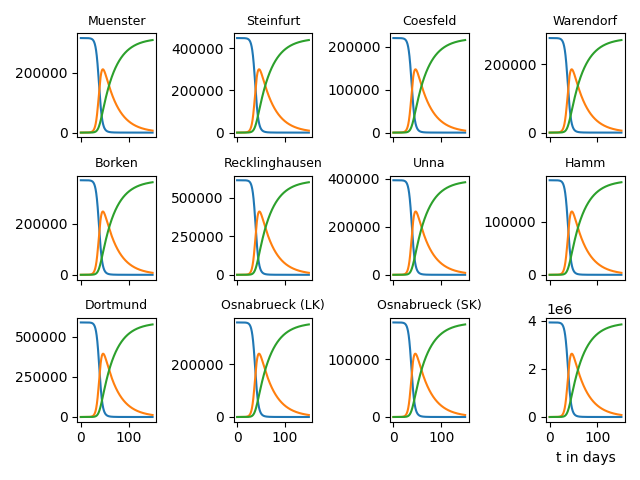
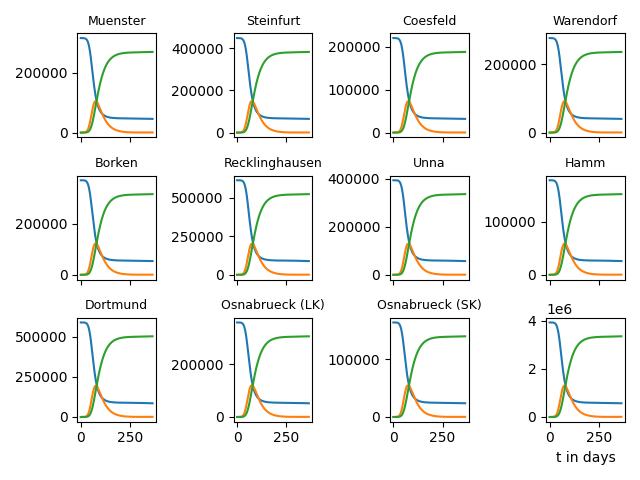
Added time-dependent R0 value

diff --git a/Const.py b/Const.py
@@ -31,10 +31,11 @@ INDEX_POS_X = 1
 INDEX_POS_Y = 2
 
 TIME_STEP = 0.1
-TEND = 150
+DAYS = 365
+daysInLockdown = 0
 
-TOTAL_STEPS = int(TEND / TIME_STEP)
-TIME_STEPS = np.linspace(start=0, stop=TEND, num=TOTAL_STEPS)
+TOTAL_STEPS = int(DAYS / TIME_STEP)
+TIME_STEPS = np.linspace(start=0, stop=DAYS, num=TOTAL_STEPS)
 ITERATION_STEPS = range(0, TOTAL_STEPS)
 
 ADJACENCY_MUENSTER_CSV = np.loadtxt(PATH_ADJACENCY_CSV, delimiter=DEFAULT_DELIMITER, skiprows=1,

diff --git a/NthCompartmentModel.py b/NthCompartmentModel.py
@@ -165,7 +165,7 @@ for iteration in ITERATION_STEPS:
                                 modelPlaceholders,
                                 modelPlaceholderValues,
                                 modelPlaceholderCategories,
-                                ADJACENCY_MATRIX_CITIES, iteration],
+                                ADJACENCY_MATRIX_CITIES, TIME_STEPS[iteration]],
                                TIME_STEP)
 
     for city in COMPARTMENTS:

diff --git a/TimeDependencies.py b/TimeDependencies.py
@@ -1,5 +1,15 @@
 from Const import *
+from numpy import exp
 
 
 def none(ACompartment, ATimeStep):
     return None
+
+
+def R0_mitigating(ACompartment, ATimeStep, r0=10, k=1 / 50, r_bar=0.5):
+    if ACompartment[0][1] / (ACompartment[0][0] + ACompartment[0][1] + ACompartment[0][2]) * 100000 > 150:
+        R0 = r0 * exp(- k * ATimeStep) + (1 - exp(- k * ATimeStep)) * r_bar
+    else:
+        R0 = 10.0
+
+    return round(R0 * 0.035, 2)
